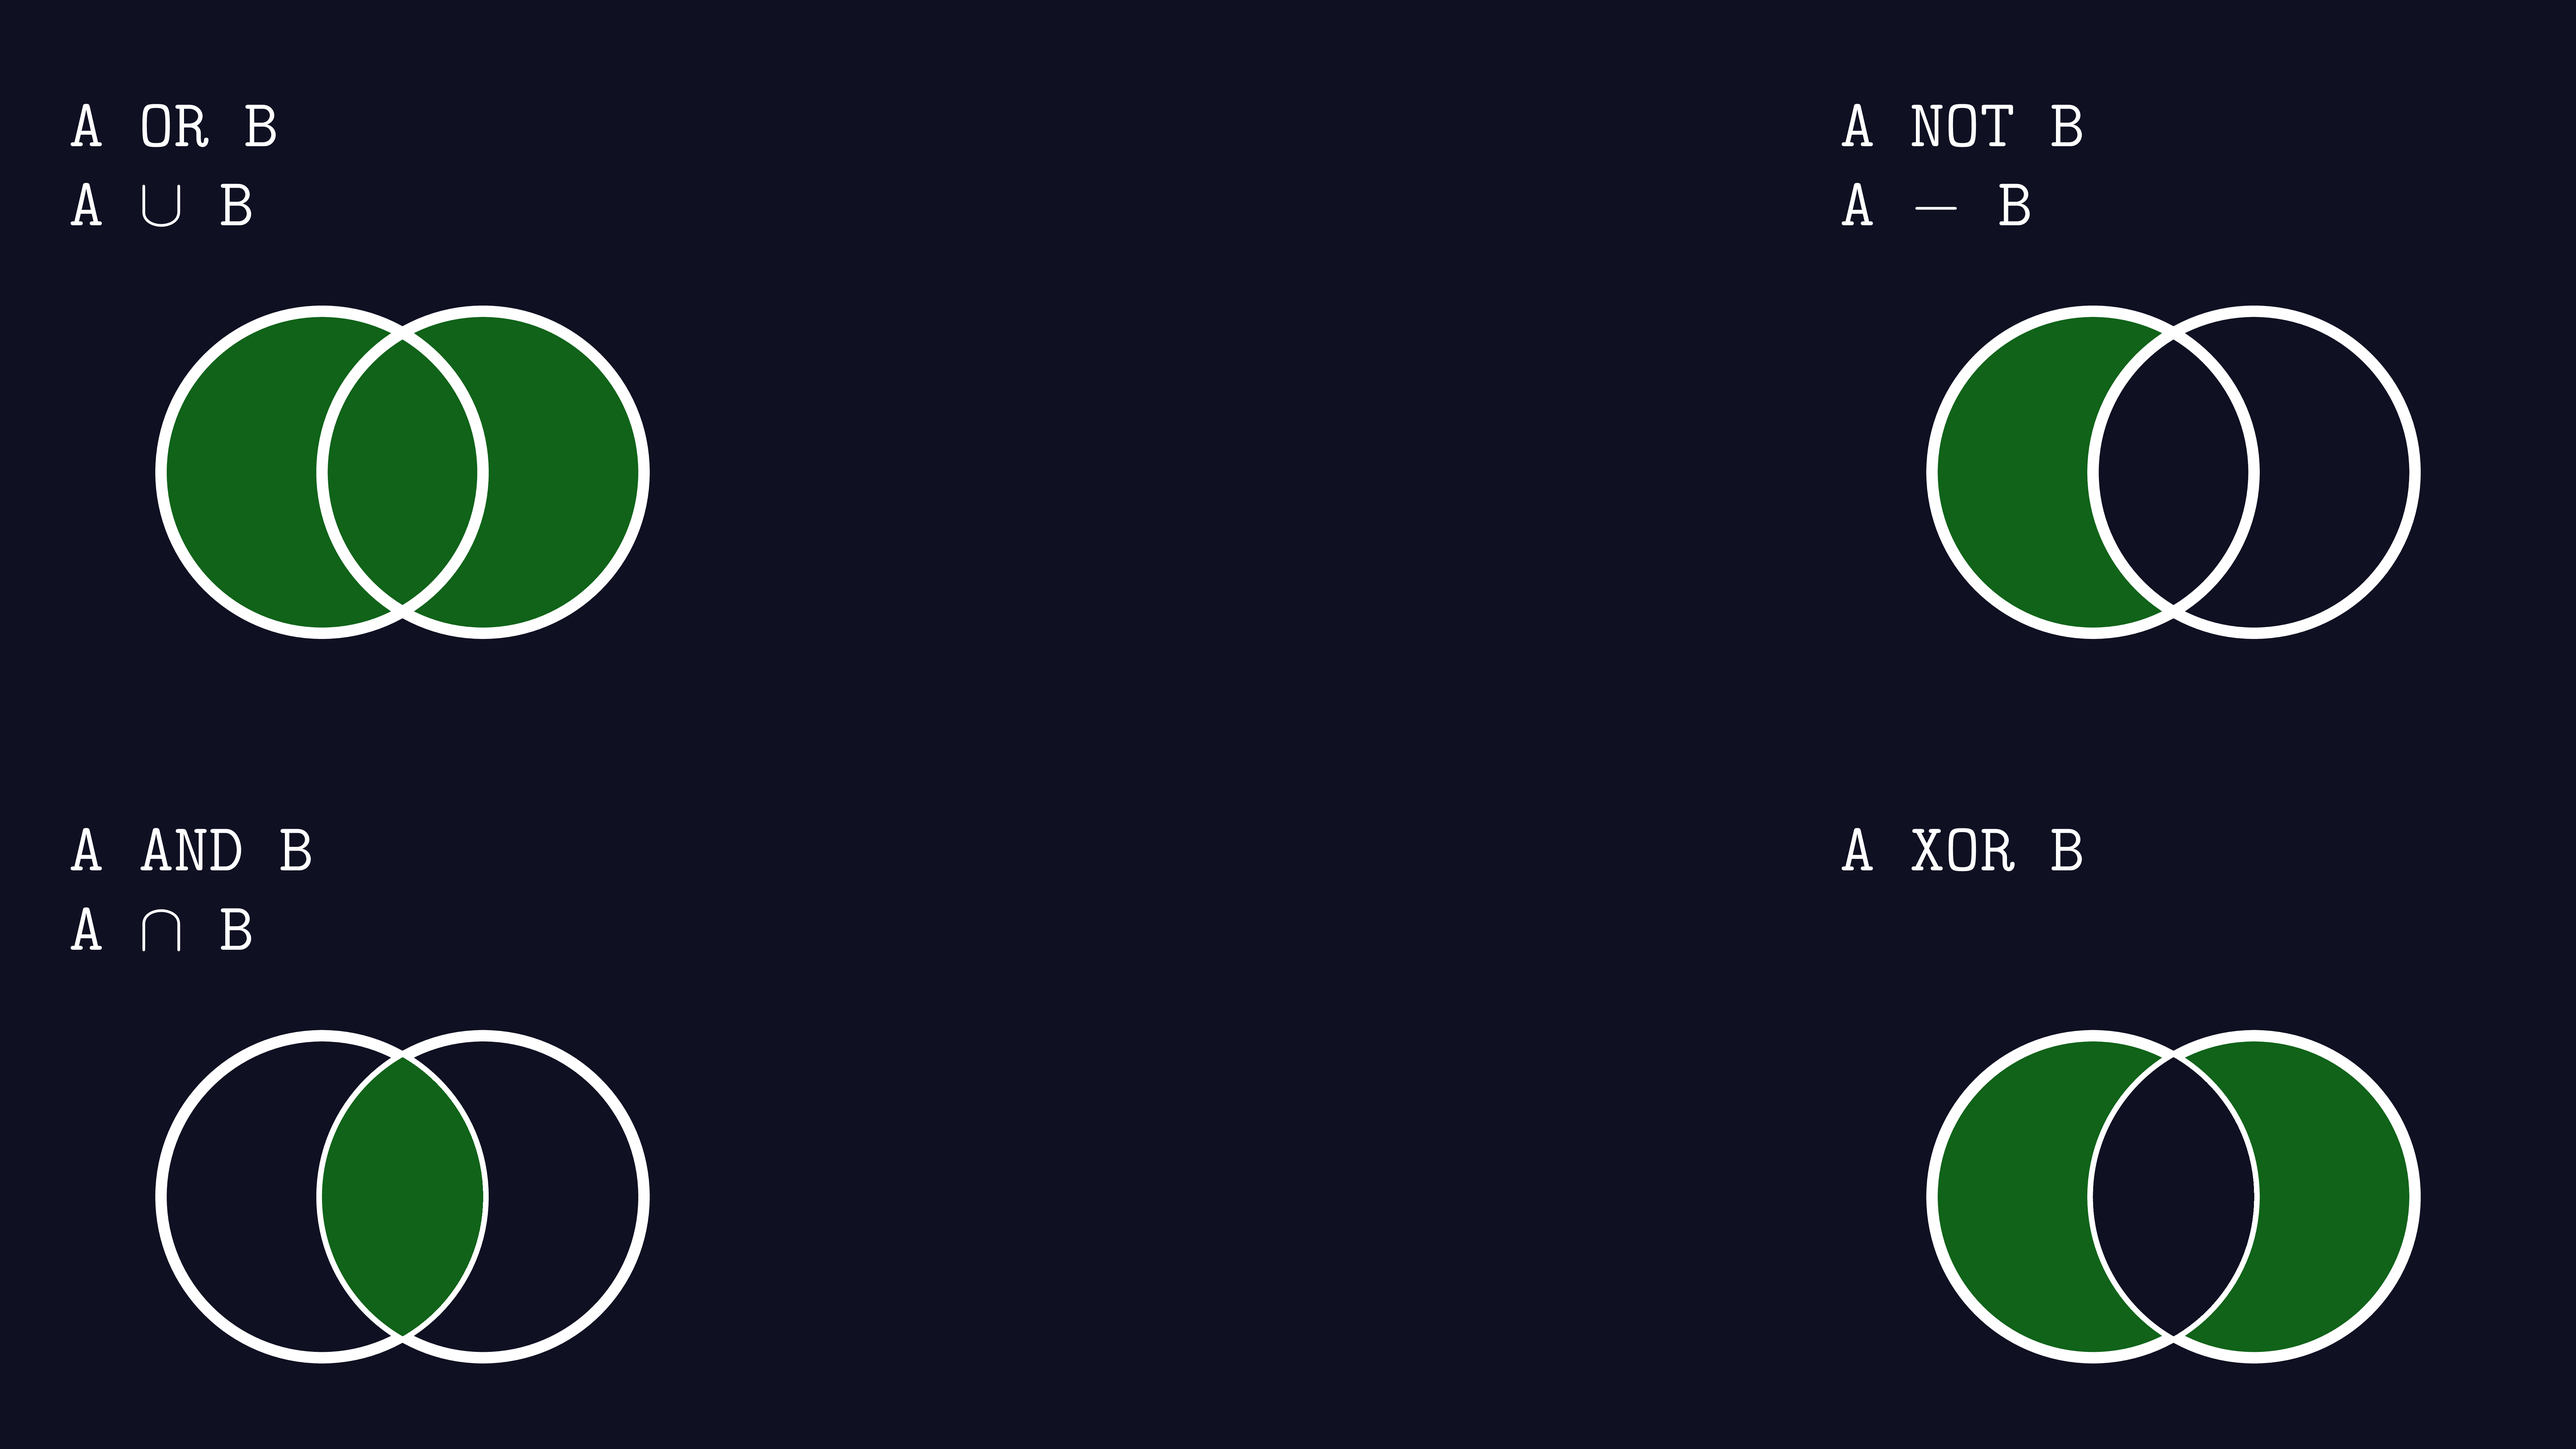
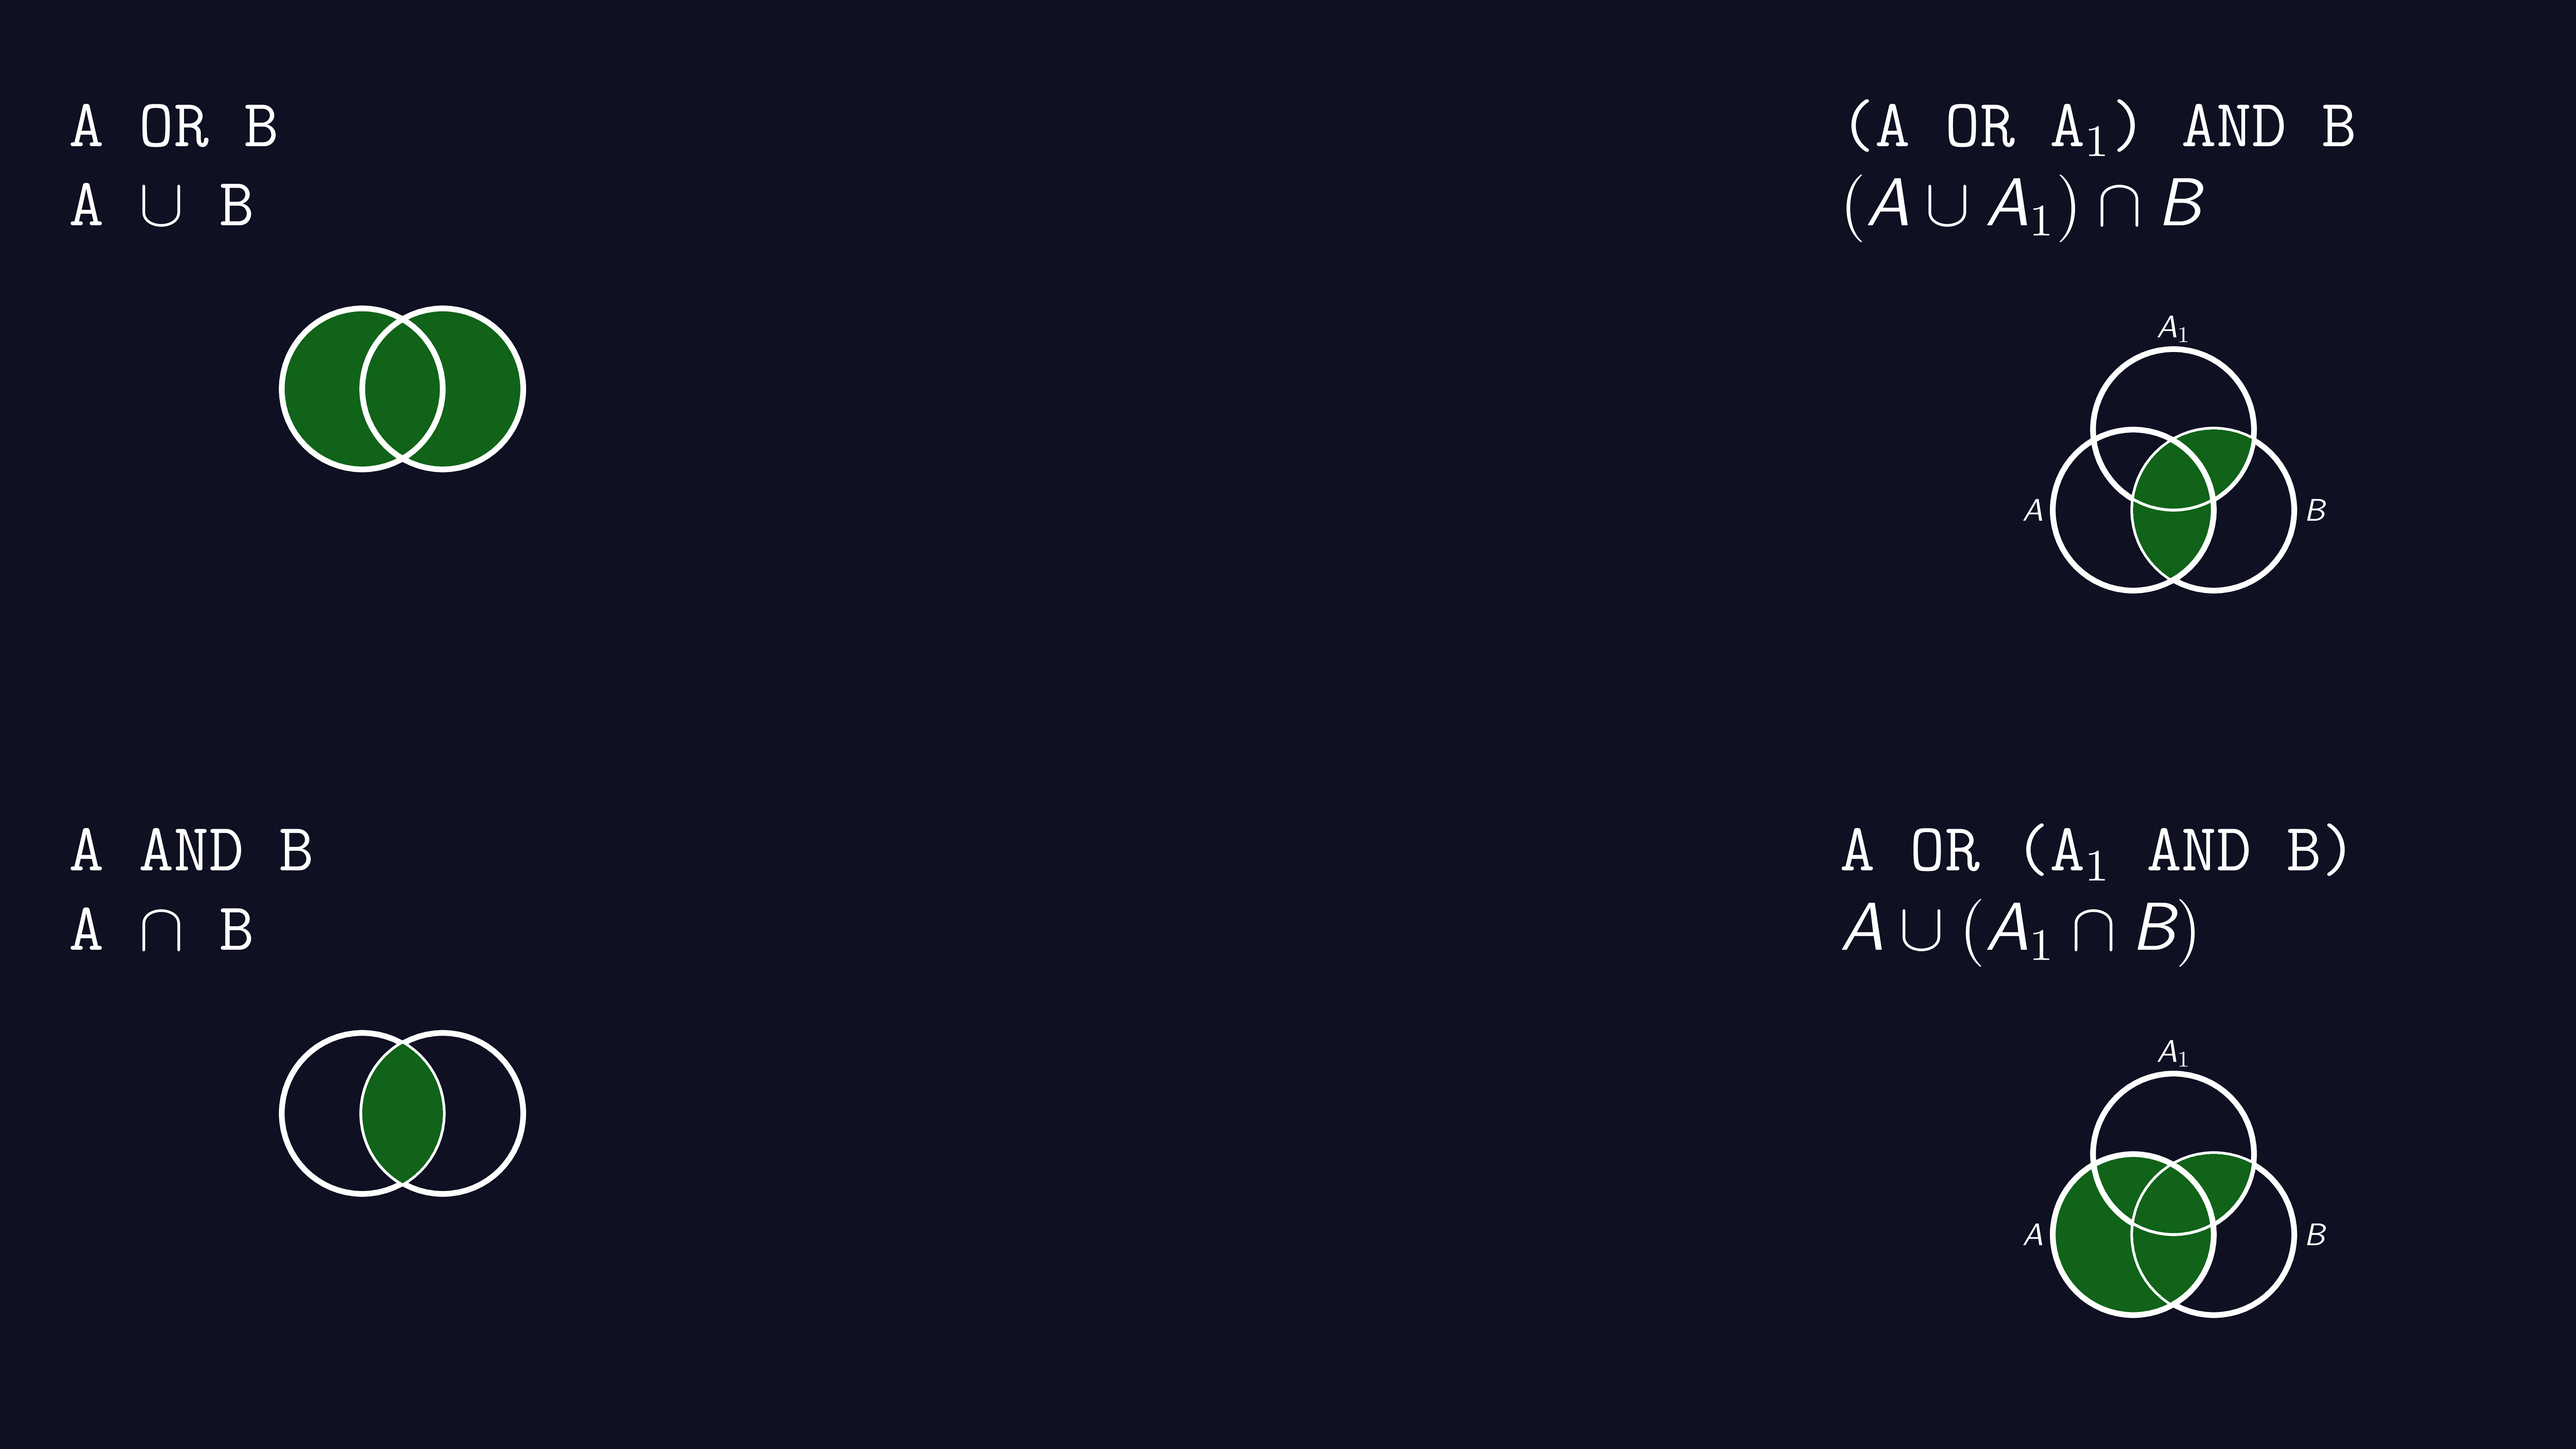
updates.

diff --git a/Backgrounds/background002.beamer.tex b/Backgrounds/background002.beamer.tex
@@ -61,7 +61,7 @@
 	\end{tabular}
 	}
     \begin{center}
-	\begin{tikzpicture}[scale=1, color = white, line width = 2]
+	\begin{tikzpicture}[scale=0.5, color = white, line width=1]
 		\fill[aocfg1] (0,0) circle (1cm);
 		\fill[aocfg1] (1,0) circle (1cm);
 		\draw (0,0) circle (1cm); 
@@ -79,7 +79,7 @@
 	\end{tabular}
 	}
     \begin{center}
-	\begin{tikzpicture}[scale=1, color = white, line width = 2]
+	\begin{tikzpicture}[scale=0.5, color = white, line width=1]
 		\draw (1,0) circle (1);
 		\draw[clip] (0,0) circle (1cm);
 		\fill[aocfg1] (1,0) circle (1cm);
@@ -87,40 +87,50 @@
     \end{center}
 \end{textblock}
 
-%%% A NOT B
+%%% (A OR A_1) AND B
 \begin{textblock}{5}(11,1)
     \MTitle{
 	\begin{tabular}{l}
-		A NOT B\\
-		A $-$ B
+		(A OR A$_1$) AND B\\
+		$(A \cup A_1) \cap B$\\
 	\end{tabular}
 	}
     \begin{center}
-	\begin{tikzpicture}[scale=1, color = white, line width = 2]
-		\fill[aocfg1] (0,0) circle (1cm);
-		\fill[aocbg] (1,0) circle (1cm);
+	\begin{tikzpicture}[scale=0.5, color = white, line width=1]
+		\draw (0.5,1) circle (1cm);
+		\draw (0.5,2.25) node[scale=0.5] {$A_1$};
 		\draw (0,0) circle (1cm);
-		\draw (1,0) circle (1cm);
+		\draw (-1.25,0) node[scale=0.5] {$A$};
+		\draw (2.25,0) node[scale=0.5] {$B$};
+		\draw[clip] (1,0) circle (1cm);
+		\fill[aocfg1] (0,0) circle (1cm);
+		\fill[aocfg1] (0.5,1) circle (1cm);
+		\draw[line width = 0.5] (0.5,1) circle (1cm);
+		\draw (0,0) circle (1cm);
 	\end{tikzpicture}
     \end{center}
 \end{textblock}
 
-%%% A XOR B
+%%% A OR (A_1 AND B)
 \begin{textblock}{5}(11,9)
-	\MTitle{	
-	\begin{tabular}{l} 
-		A XOR B \\
-		\vphantom{A $\cap$ B}
+    \MTitle{
+	\begin{tabular}{l}
+		A OR (A$_1$ AND B)\\
+		$A \cup (A_1 \cap B)$\\
 	\end{tabular}
 	}
     \begin{center}
-	\begin{tikzpicture}[scale=1, color = white, line width = 2]
+	\begin{tikzpicture}[scale=0.5, color = white, line width=1]
+		\draw[fill=aocfg1] (0,0) circle (1cm);
+		\draw (-1.25,0) node[scale=0.5] {$A$};
+		\draw (0.5,1) circle (1cm);
+		\draw (0.5,2.25) node[scale=0.5] {$A_1$};
+		\draw (2.25,0) node[scale=0.5] {$B$};
+		\draw[clip] (1,0) circle (1cm);
 		\fill[aocfg1] (0,0) circle (1cm);
-		\fill[aocfg1] (1,0) circle (1cm);
-		\draw (1,0) circle (1);
-		\draw[clip] (0,0) circle (1cm);
-		\fill[aocbg] (1,0) circle (1cm);
-		\fill[aocbg] (1,0) circle (1cm);
+		\fill[aocfg1] (0.5,1) circle (1cm);
+		\draw[line width=0.5] (0.5,1) circle (1cm);
+		\draw (0,0) circle (1cm);
 	\end{tikzpicture}
     \end{center}
 \end{textblock}
